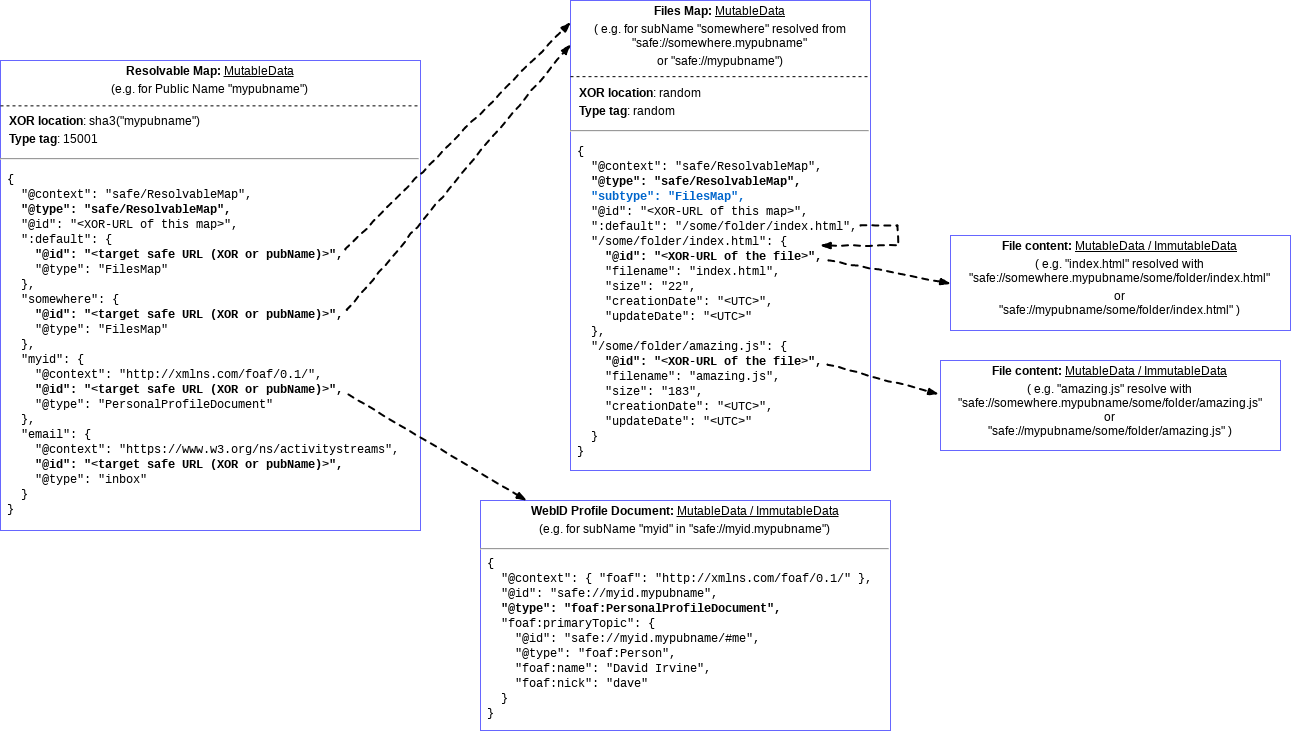
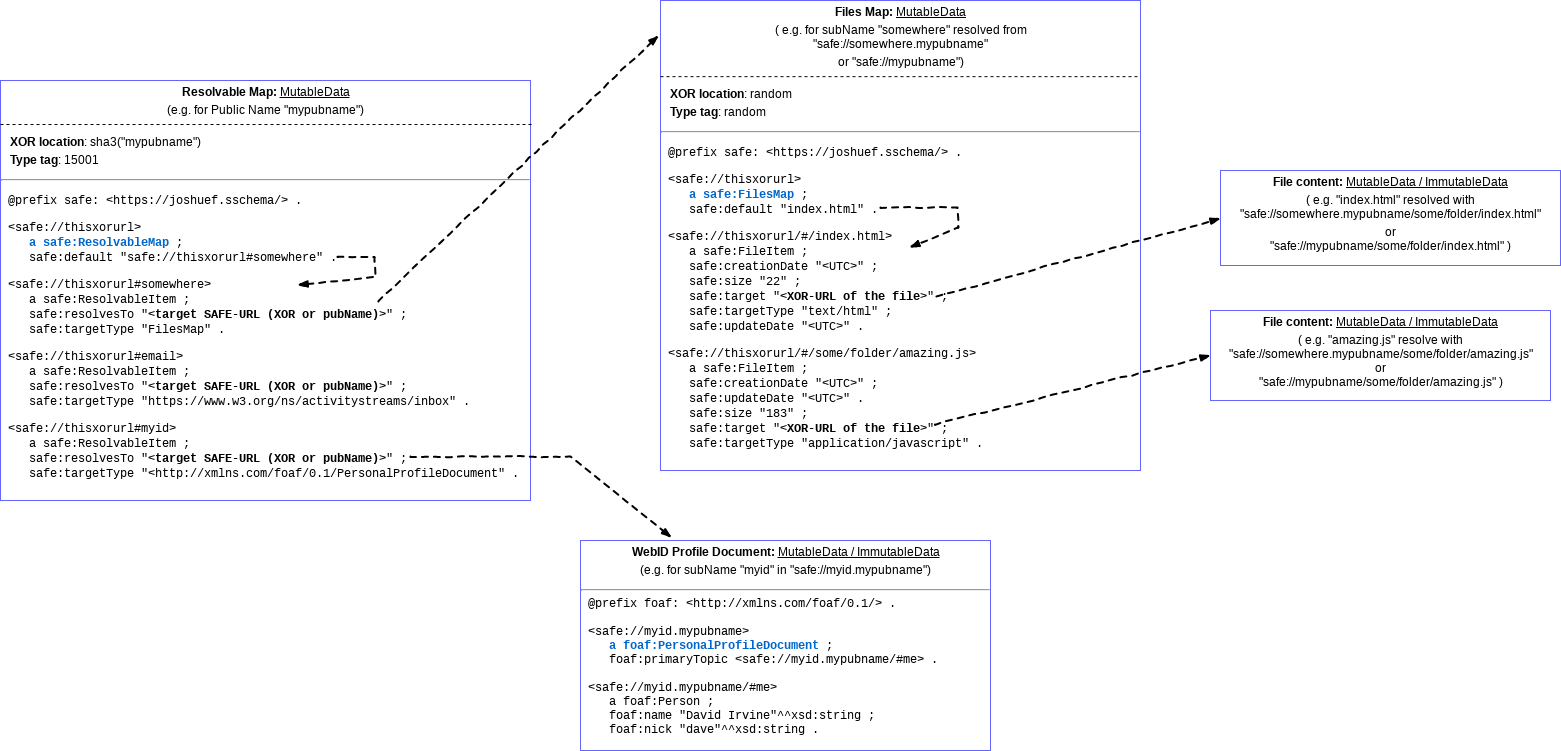
Update to use RDF document as basis rather than a single graph.

diff --git a/text/0000-RDF-for-public-name-resolution/0000-RDF-for-public-name-resolution.md b/text/0000-RDF-for-public-name-resolution/0000-RDF-for-public-name-resolution.md
@@ -99,12 +99,11 @@ Once the final data has been resolved in a browser, if a `Files Map` type of `Re
 
 #### Resolvable Map Structure
 
-The ideal for this is an RDF Data Set stored on the safe network. This will follow a newly defined schema, that represents a list of
-`keys`, which map to XOR-URLs. Each entry can contain more information to aid in resolving data, depending on context / application.
+The idea for this is an RDF Data Set stored on the safe network. This will follow a newly defined schema, that represents a list of `keys`, which map to XOR-URLs. Each entry can contain more information to aid in resolving data, depending on context / application.
 
+Sample RDF schema can be found: https://github.com/joshuef/sschema/tree/master/src
 
-
-The RDF document should also contain a `:default` graph (`:` is intentionally chosen as it is not a valid subdomain portion of a URI), which points to the desired resolution if no `key` is provided. `:default` can either point to a SAFE URL (xor or pubName), or alternatively, can point to another graph (such as another `Resolvable Map`). The resolver will determine that it is URL to resolve via the presence of `safe://` protocol.
+The RDF document should also contain a `default` graph (`:` is intentionally chosen as it is not a valid subdomain portion of a URI), which points to the desired resolution if no `key` is provided. `default` can either point to a SAFE URL (xor or pubName), or alternatively, can point to another graph (such as another `Resolvable Map`). The resolver will determine that it is URL to resolve via the presence of `safe://` protocol.
 
 The RDF document will have a version relating to the version of the `Resolvable Map` data structure in use. (starting at `v1`.)
 
@@ -135,8 +134,8 @@ Provides data to be shown at the public name.
 		  },
 		"@type": "ResolvableItem",
 		"@id": "safe://thisxorurl#somewhere",
-		"resolvesTo": "<target graph or safe url (xor or pubName); eg: 'somewhere'>",
-		"targetName" : "somewhere"
+		"target": "<target graph or safe url (xor or pubName); eg: 'somewhere'>",
+        "targetType": "FilesMap"
 	},
 	{
 		"@context": {
@@ -144,11 +143,9 @@ Provides data to be shown at the public name.
 		  },
 		"@type": "ResolvableItem",
 		"@id": "safe://thisxorurl#email",
-		"resolvesTo": "<target graph or safe url (xor or pubName); eg: 'email'>",
-		"targetName" : "email",
+		"target": "<target graph or safe url (xor or pubName); eg: 'email'>",
 		"targetType": "http://activitystream/#inbox"
 	}
-
  ]
  ```
 
@@ -169,28 +166,40 @@ I would propose that we create a `Files Map` RDF type, which follows the same da
 
 
 ```js
-{
-  "@context": "<safe://ResolvableMap/FilesMap-SchemaLocation>",
-  "@type": "FilesMap",
-  "@id": "<xor url of this map>",
-  "default" : "/some/website/index.html",
-  "/some/website/index.html" : {
-      "filename": 'index.html',
-      "@type": 'html', // optional. Required only if `@id` is a PNS link
-      "@id": "<XOR-URL location>",
-      "size": '22',
-      "creationDate": '<UTC>',
-      "updateDate": '<UTC>',
-  },
-  "/some/website/amazing.js" : {
-      "filename": 'amazing.js',
-      "@type": 'text/javascript', // optional. Required only if `@id` is a PNS link
-      "@id": "<XOR-URL location>",
-      "size": '22',
-      "creationDate": '<UTC>',
-      "updateDate": '<UTC>',
-  }
-}
+[
+   {
+	   "@context": {
+		   "@vocab": "https://raw.githubusercontent.com/joshuef/sschema/master/src/"
+		 },
+		"@type": "FilesMap",
+		"@id": "safe://thisxorurl",
+		"default" : "index.html"
+   },
+   {
+	   "@context": {
+		   "@vocab": "https://raw.githubusercontent.com/joshuef/sschema/master/src/"
+		 },
+	   "@type": "FileItem",
+	   "@id": "safe://thisxorurl/#/index.html",
+       "targetType": 'html',
+       "target": "<XOR-URL location>",
+       "size": '22',
+       "creationDate": '<UTC>',
+       "updateDate": '<UTC>'
+   },
+   {
+	   "@context": {
+		   "@vocab": "https://raw.githubusercontent.com/joshuef/sschema/master/src/"
+		 },
+	   "@type": "FileItem",
+	   "@id": "safe://thisxorurl/#/some/deep/path/amazing.js",
+       "targetType": 'test/javascript',
+       "target": "<XOR-URL location>",
+       "size": '22',
+       "creationDate": '<UTC>',
+       "updateDate": '<UTC>'
+   }
+]
 
 ```
 
